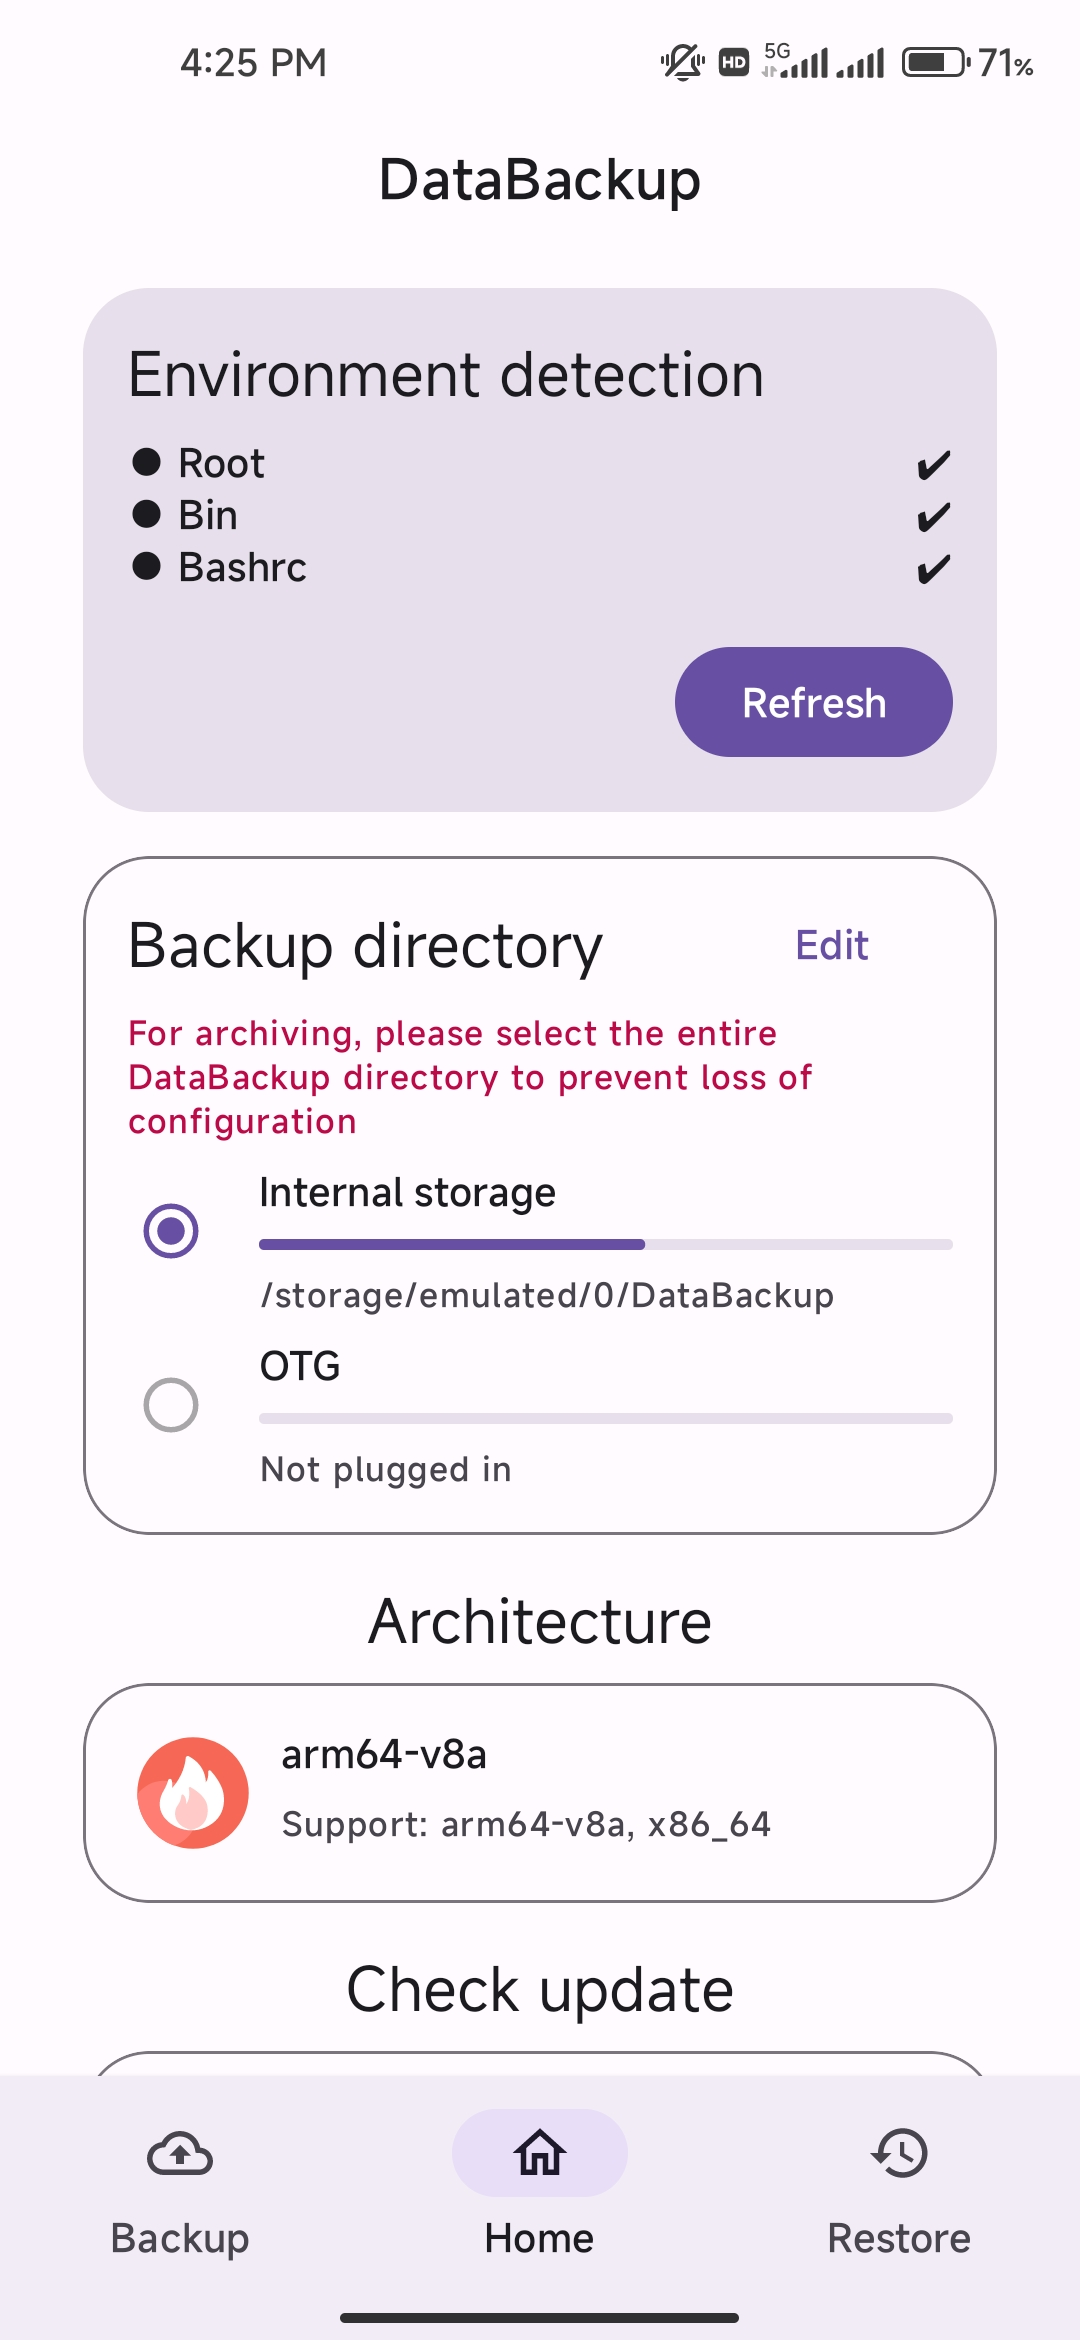
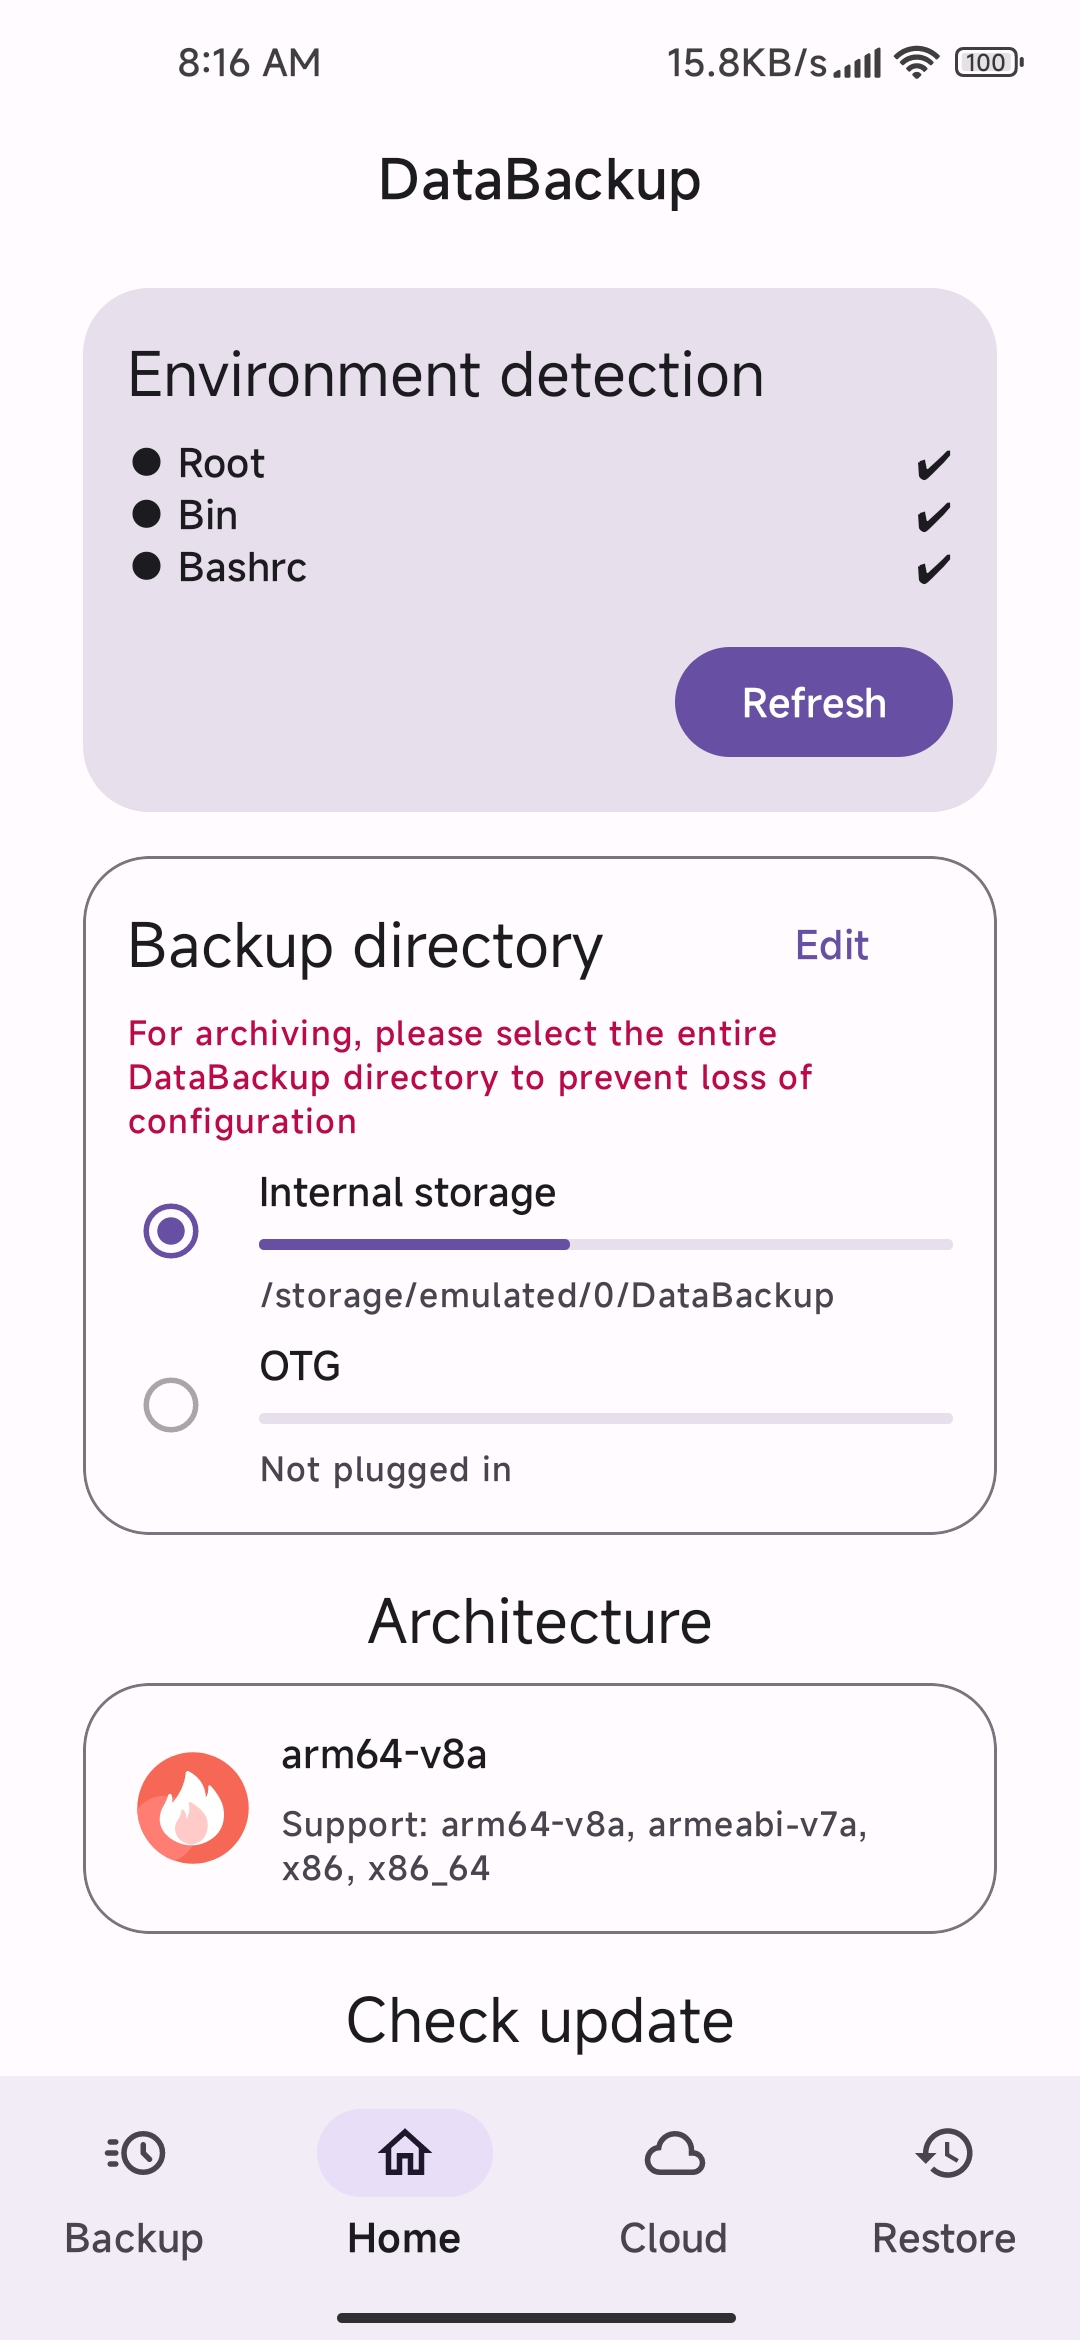
feat: 更新描述

diff --git a/README_RU.md b/README_RU.md
@@ -10,11 +10,22 @@
 ## Преимущества
 * **Поддержка многопользовательского/двойного бекапа**: даже резервное копирование/восстановление между разделами!
 
+* **Облако**: полностью поддерживает Rclone, который может осуществлять локальное монтирование сетевых дисков различных поставщиков услуг.
+
 * **100% целостность данных**: Все данные будут сохранены, и вам не нужно будет повторно входить в систему или загружать дополнительные пакеты.
+
+* **Полный**: Split Apk, Arm32, Arm64, x86, x86_64, Android9+.
 
 * **Скорость**: Поддержка: tar lz4 **zstd (по умолчанию)**.
 
 * **Простота**: всего несколько простых шагов!
+
+## Скриншот
+<div align="center">
+	<img src="./fastlane/metadata/android/en-US/images/phoneScreenshots/01.jpg" width="200px"><img src="./fastlane/metadata/android/en-US/images/phoneScreenshots/02.jpg" width="200px"><img src="./fastlane/metadata/android/en-US/images/phoneScreenshots/03.jpg" width="200px">
+	<img src="./fastlane/metadata/android/en-US/images/phoneScreenshots/04.jpg" width="200px"><img src="./fastlane/metadata/android/en-US/images/phoneScreenshots/05.jpg" width="200px"><img src="./fastlane/metadata/android/en-US/images/phoneScreenshots/06.jpg" width="200px">
+	<img src="./fastlane/metadata/android/en-US/images/phoneScreenshots/07.jpg" width="200px"><img src="./fastlane/metadata/android/en-US/images/phoneScreenshots/08.jpg" width="200px"><img src="./fastlane/metadata/android/en-US/images/phoneScreenshots/09.jpg" width="200px">
+</div>
 
 ## Скачать
 [<img src="https://gitlab.com/IzzyOnDroid/repo/-/raw/master/assets/IzzyOnDroid.png"

diff --git a/README_EN.md b/README_EN.md
@@ -10,18 +10,29 @@ The script has been **widely acclaimed** since the author made it. This app was 
 ## Advantage
 * **Support multi-user/dual backup**: Even backup/restore across partitions!
 
+* **Cloud**: Fully supports Rclone, which can realize local mounting of network disks of various service providers.
+
 * **100% Data Integrity**: All the data will be retained, and there is no need to log in again or download additional packages.
+
+* **Full**: Split Apk, Arm32, Arm64, x86, x86_64, Android9+.
 
 * **Fast**: Support: tar lz4 **zstd(default)**.
 
 * **Easy**: Just a few simple steps!
+
+## Screenshot
+<div align="center">
+	<img src="./fastlane/metadata/android/en-US/images/phoneScreenshots/01.jpg" width="200px"><img src="./fastlane/metadata/android/en-US/images/phoneScreenshots/02.jpg" width="200px"><img src="./fastlane/metadata/android/en-US/images/phoneScreenshots/03.jpg" width="200px">
+	<img src="./fastlane/metadata/android/en-US/images/phoneScreenshots/04.jpg" width="200px"><img src="./fastlane/metadata/android/en-US/images/phoneScreenshots/05.jpg" width="200px"><img src="./fastlane/metadata/android/en-US/images/phoneScreenshots/06.jpg" width="200px">
+	<img src="./fastlane/metadata/android/en-US/images/phoneScreenshots/07.jpg" width="200px"><img src="./fastlane/metadata/android/en-US/images/phoneScreenshots/08.jpg" width="200px"><img src="./fastlane/metadata/android/en-US/images/phoneScreenshots/09.jpg" width="200px">
+</div>
 
 ## Download
 [<img src="https://gitlab.com/IzzyOnDroid/repo/-/raw/master/assets/IzzyOnDroid.png"
      alt="Get it on IzzyOnDroid"
      height="80">](https://apt.izzysoft.de/fdroid/index/apk/com.xayah.databackup)
 
-or get the APK from the [Releases Section](https://github.com/XayahSuSuSu/Android-DataBackup/releases/latest).
+or get the APK from the [Releases](https://github.com/XayahSuSuSu/Android-DataBackup/releases/latest).
 
 ## LICENSE
 [GNU General Public License v3.0](./LICENSE)

diff --git a/README_UK.md b/README_UK.md
@@ -10,11 +10,22 @@
 ## Переваги
 * **Підтримка багатокористувацького/подвійного бекапу**: навіть резервне копіювання/відновлення між розділами!
 
+* **Хмара**: повністю підтримує Rclone, який може реалізувати локальне монтування мережевих дисків різних постачальників послуг.
+
 * **100% цілісність даних**: усі дані будуть збережені, без необхідності повторно входити в систему чи завантажувати додаткові пакети.
+
+* **Повний**: Split Apk, Arm32, Arm64, x86, x86_64, Android9+.
 
 * **Швидко**: Підтримка: tar lz4 **zstd(за замовчуванням)**.
 
 * **Легко**: всього кілька простих кроків!
+
+## Скріншот
+<div align="center">
+	<img src="./fastlane/metadata/android/en-US/images/phoneScreenshots/01.jpg" width="200px"><img src="./fastlane/metadata/android/en-US/images/phoneScreenshots/02.jpg" width="200px"><img src="./fastlane/metadata/android/en-US/images/phoneScreenshots/03.jpg" width="200px">
+	<img src="./fastlane/metadata/android/en-US/images/phoneScreenshots/04.jpg" width="200px"><img src="./fastlane/metadata/android/en-US/images/phoneScreenshots/05.jpg" width="200px"><img src="./fastlane/metadata/android/en-US/images/phoneScreenshots/06.jpg" width="200px">
+	<img src="./fastlane/metadata/android/en-US/images/phoneScreenshots/07.jpg" width="200px"><img src="./fastlane/metadata/android/en-US/images/phoneScreenshots/08.jpg" width="200px"><img src="./fastlane/metadata/android/en-US/images/phoneScreenshots/09.jpg" width="200px">
+</div>
 
 ## Завантажити
 [<img src="https://gitlab.com/IzzyOnDroid/repo/-/raw/master/assets/IzzyOnDroid.png"

diff --git a/README.md b/README.md
@@ -14,12 +14,22 @@
 ## 优势
 * **支持多用户/双开备份**：甚至能够跨分区备份/恢复！
 
+* **云端备份**：完整支持Rclone，可实现各类服务提供商网盘本地挂载。
+
 * **数据完整**：在更换系统之后，原有的数据全部保留，无需重新登陆或者下载额外数据包。
+
+* **功能强**：支持Split Apk，支持Arm32, Arm64, x86, x86_64，支持Android9+
 
 * **速度快**：目前支持的压缩算法有 tar lz4 zstd(默认)
 
 * **易操作**：仅需简单几步即可备份App完整数据！
 
+## 截图
+<div align="center">
+	<img src="./fastlane/metadata/android/en-US/images/phoneScreenshots/01.jpg" width="200px"><img src="./fastlane/metadata/android/en-US/images/phoneScreenshots/02.jpg" width="200px"><img src="./fastlane/metadata/android/en-US/images/phoneScreenshots/03.jpg" width="200px">
+	<img src="./fastlane/metadata/android/en-US/images/phoneScreenshots/04.jpg" width="200px"><img src="./fastlane/metadata/android/en-US/images/phoneScreenshots/05.jpg" width="200px"><img src="./fastlane/metadata/android/en-US/images/phoneScreenshots/06.jpg" width="200px">
+	<img src="./fastlane/metadata/android/en-US/images/phoneScreenshots/07.jpg" width="200px"><img src="./fastlane/metadata/android/en-US/images/phoneScreenshots/08.jpg" width="200px"><img src="./fastlane/metadata/android/en-US/images/phoneScreenshots/09.jpg" width="200px">
+</div>
 
 ## 获取
 [<img src="https://gitlab.com/IzzyOnDroid/repo/-/raw/master/assets/IzzyOnDroid.png"
